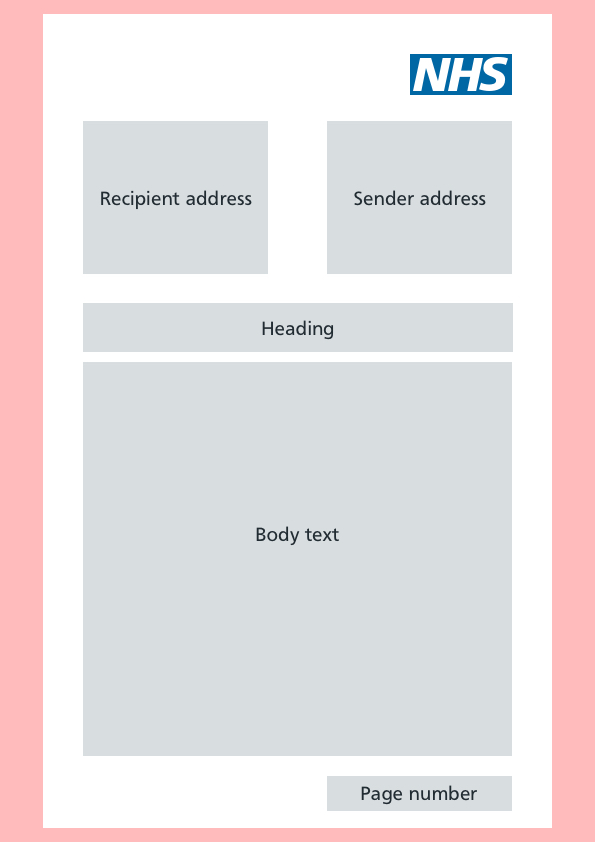
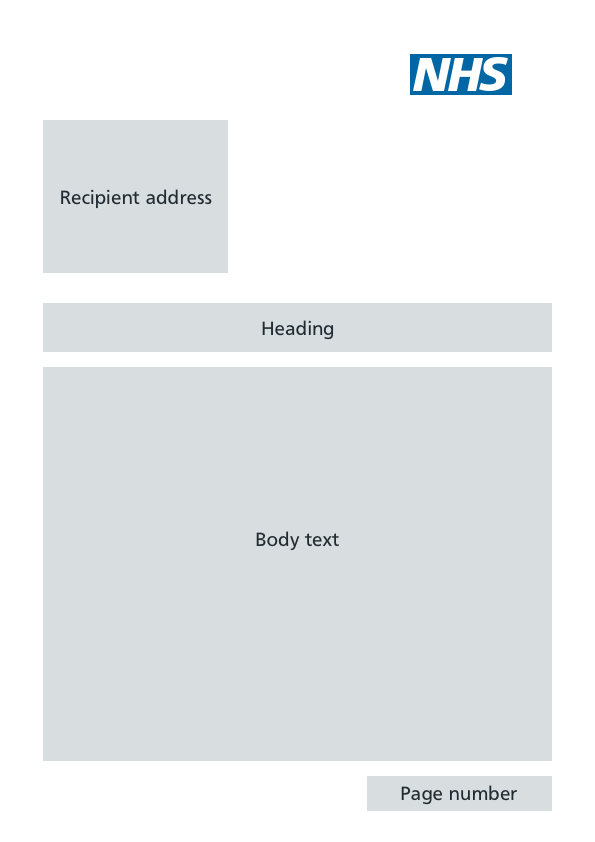
Removed sender address and updated letter layout image

diff --git a/app/views/v2/manage/create-letter-template.html b/app/views/v2/manage/create-letter-template.html
@@ -50,6 +50,7 @@
 
         <div class="notify-template-borderbox">
 
+        {#
         {{ textarea({
           "label": {
             "text": "Sender address"
@@ -65,6 +66,7 @@
         <span class="nhsuk-error-message nhsuk-u-margin-bottom-6" id="template-letter-sender-1--error">
           <span class="nhsuk-u-visually-hidden">Error:</span> Enter a sender address
         </span>
+        #}
 
         {{ input({
           "label": {
@@ -133,6 +135,7 @@
 
         <div class="notify-template-borderbox">
 
+        {#
         {{ textarea({
           "label": {
             "text": "Sender address"
@@ -147,6 +150,7 @@
         <span class="nhsuk-error-message nhsuk-u-margin-bottom-6" id="template-letter-sender-1--error">
           <span class="nhsuk-u-visually-hidden">Error:</span> Enter a sender address
         </span>
+        #}
 
         {{ input({
           "label": {
@@ -209,7 +213,7 @@
       <p class="nhsuk-hint">This shows where your content will appear on the page.</p>
 
       <a href="/images/nhs-notify-pdf-letter-spec.jpg" target="_blank">
-        <img src="/images/nhs-notify-pdf-letter-spec.jpg" style="max-width: 100%;" />
+        <img src="/images/nhs-notify-pdf-letter-spec.jpg" style="max-width: 100%; border:#4c6272 1px solid;" />
       </a>
       <p><a href="/images/nhs-notify-pdf-letter-spec.jpg" target="_blank">View letter layout (opens in a new tab)</a></p>
 

diff --git a/app/assets/javascript/main.js b/app/assets/javascript/main.js
@@ -130,7 +130,7 @@ function checkFormLetter() {
         document.getElementById("template-letter-name-1--error").style.display = "none";
     }
 
-    if (document.getElementById("template-letter-sender-1").value == "") {
+    /*if (document.getElementById("template-letter-sender-1").value == "") {
         document.getElementById("template-letter-sender-1").classList.add("nhsuk-input--error");
         document.getElementById("template-letter-sender-1").closest(".nhsuk-form-group").classList.add("nhsuk-form-group--error");
         document.getElementById("template-letter-sender-1--error").style.display = "block";
@@ -139,7 +139,7 @@ function checkFormLetter() {
         document.getElementById("template-letter-sender-1").classList.remove("nhsuk-input--error");
         document.getElementById("template-letter-sender-1").closest(".nhsuk-form-group").classList.remove("nhsuk-form-group--error");
         document.getElementById("template-letter-sender-1--error").style.display = "none";
-    }
+    }*/
 
     if (document.getElementById("template-letter-heading-1").value == "") {
         document.getElementById("template-letter-heading-1").classList.add("nhsuk-input--error");

diff --git a/app/views/v2/manage/template-letter-1.html b/app/views/v2/manage/template-letter-1.html
@@ -30,14 +30,14 @@
       <table role="table" class="nhsuk-table-responsive notify-template-content nhsuk-u-margin-bottom-4">
 
         <tbody class="nhsuk-table__body">
-          <tr role="row" class="nhsuk-table__row">
+          <!--<tr role="row" class="nhsuk-table__row">
             <th role="cell" class="nhsuk-table__cell">
               Sender address
             </th>
             <td role="cell" class="nhsuk-table__cell">
               {{ data['template-letter-sender-1'] }}
             </td>
-          </tr>
+          </tr>-->
           <tr role="row" class="nhsuk-table__row">
             <th role="cell" class="nhsuk-table__cell">
               Heading
